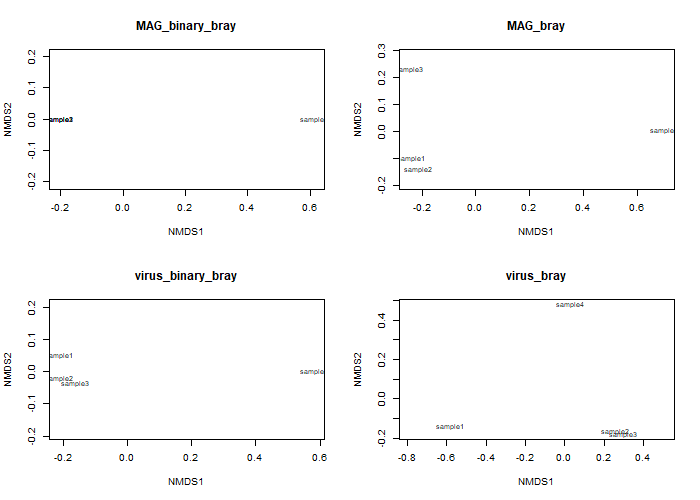
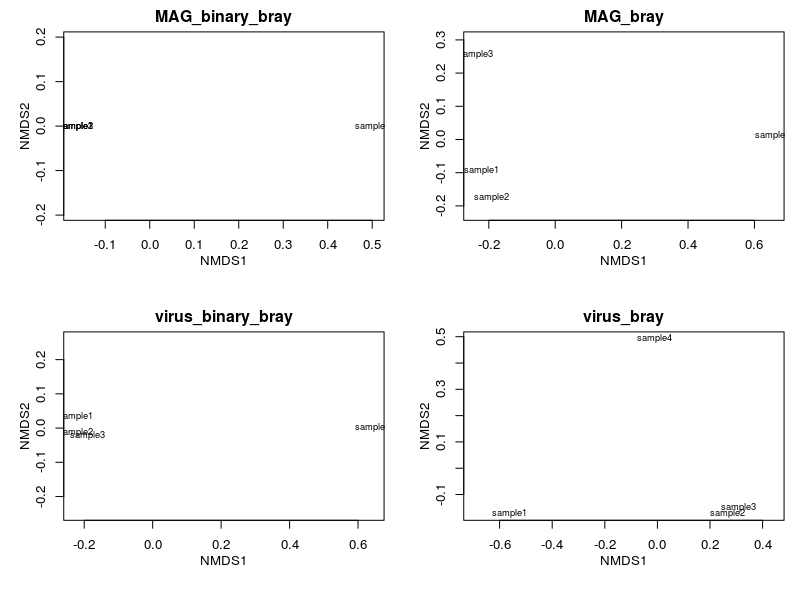
Update ordination

diff --git a/docs/day4/ex16c_OPTIONAL_data_presentation_Ordination.md b/docs/day4/ex16c_OPTIONAL_data_presentation_Ordination.md
@@ -63,7 +63,7 @@ Import coverage tables and mapping file.
 
     ```R
     # Read files ----
-    contig_cov <- read_tsv("bins_cov_table.txt") # Bin contig coverage table
+    contig_cov <- read_tsv("bin_cov_table.txt") # Bin contig coverage table
     virus_cov <- read_tsv("viruses_cov_table.txt") # Viral contig coverage table
     metadata <- read_tsv("mapping_file.txt") # Metadata/mapping file of environmental parameters
     ```
@@ -77,7 +77,7 @@ As before in [coverage exercise](../day4/ex16b_data_presentation_Coverage.md), w
     ```R
     ## Select relevant columns and rename them
     contig_cov <- contig_cov %>%
-      select(contigName, ends_with(".bam")) %>%
+      select(contigName, contigLen, ends_with(".bam")) %>%
       rename_with(
         .fn = function(sample_name) str_remove(sample_name, ".bam"),
         .cols = everything()
@@ -98,8 +98,8 @@ As before in [coverage exercise](../day4/ex16b_data_presentation_Coverage.md), w
       group_by(binID) %>%
       summarise(
         across(
-          -contigName,
-          .fns = function(coverage) mean(coverage)
+          contains("sample"),
+          .fns = function(coverage) weighted.mean(coverage, contigLen)
         )
       )
     ```
